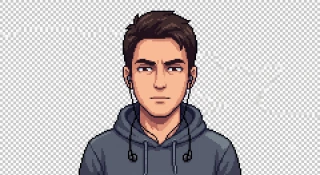
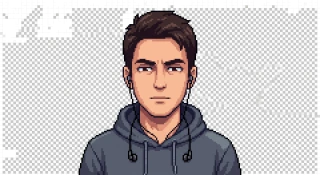
Fiyat/pazarlık mekaniği ekle, görsellerden AI watermark'ını temizle
- HouseScene.askingPrice + ChoiceEffects.discountPercent ile pazarlık
- İndirim verilirse komisyon düşer ama satış inisiyatifi artar
- Sonuç ve özet ekranlarında satış fiyatı/komisyon gösterimi
- Sahne ve portre görsellerindeki sparkle watermark inpainting ile temizlendi

Changed region(s): [[0.0, 0.0, 1.0, 1.0], [0.8438, 0.9714, 0.875, 1.0], [0.0938, 0.9714, 0.125, 1.0]]

diff --git a/src/App.tsx b/src/App.tsx
@@ -4,12 +4,19 @@ import DialogueScene from "./components/DialogueScene";
 import StatsBar from "./components/StatsBar";
 import { day1IntroMessages, day1IntroThought, day2IntroMessages, day2IntroThought } from "./data/intro";
 import { houseKokuluStudyo, houseHayaletliDaire } from "./data/houses";
-import type { ChoiceEffects, GameStats, SceneOutcome } from "./types";
+import { COMMISSION_RATE, formatTL } from "./data/economy";
+import type { ChoiceEffects, GameStats, HouseScene, SceneOutcome } from "./types";
 import "./game.css";
 
 type Stage = "phone1" | "house1" | "result1" | "phone2" | "house2" | "result2" | "summary";
 
-const emptyStats: GameStats = { suspicion: 0, interest: 0, fun: 0 };
+interface SaleResult {
+  finalPrice: number;
+  commission: number;
+  discountPercent: number;
+}
+
+const emptyStats: GameStats = { suspicion: 0, interest: 0, fun: 0, discountPercent: 0 };
 
 const outcomeText: Record<SceneOutcome, string> = {
   sold: "Satış tamamlandı! 🎉",
@@ -17,19 +24,30 @@ const outcomeText: Record<SceneOutcome, string> = {
   lost: "Satış kaybedildi.",
 };
 
+function computeSale(house: HouseScene, discountPercent: number): SaleResult {
+  const finalPrice = house.askingPrice * (1 - discountPercent / 100);
+  const commission = finalPrice * COMMISSION_RATE;
+  return { finalPrice, commission, discountPercent };
+}
+
 function App() {
   const [stage, setStage] = useState<Stage>("phone1");
   const [stats, setStats] = useState<GameStats>(emptyStats);
   const [outcome1, setOutcome1] = useState<SceneOutcome | null>(null);
   const [outcome2, setOutcome2] = useState<SceneOutcome | null>(null);
+  const [sale1, setSale1] = useState<SaleResult | null>(null);
+  const [sale2, setSale2] = useState<SaleResult | null>(null);
 
   function applyEffects(effects: ChoiceEffects) {
     setStats((s) => ({
       suspicion: s.suspicion + (effects.suspicion ?? 0),
       interest: s.interest + (effects.interest ?? 0),
       fun: s.fun + (effects.fun ?? 0),
+      discountPercent: s.discountPercent + (effects.discountPercent ?? 0),
     }));
   }
+
+  const totalCommission = (sale1?.commission ?? 0) + (sale2?.commission ?? 0);
 
   return (
     <div className="game-root">
@@ -54,6 +72,7 @@ function App() {
             onChoiceEffects={applyEffects}
             onSceneEnd={(outcome) => {
               setOutcome1(outcome);
+              if (outcome === "sold") setSale1(computeSale(houseKokuluStudyo, stats.discountPercent));
               setStage("result1");
             }}
           />
@@ -63,6 +82,12 @@ function App() {
       {stage === "result1" && outcome1 && (
         <div className="result-screen">
           <p>{outcomeText[outcome1]}</p>
+          {sale1 && (
+            <div className="sale-summary">
+              <p>Satış Fiyatı: {formatTL(sale1.finalPrice)}{sale1.discountPercent > 0 && ` (%${sale1.discountPercent} indirimli)`}</p>
+              <p>Komisyonunuz: {formatTL(sale1.commission)}</p>
+            </div>
+          )}
           <button className="pixel-btn" onClick={() => { setStats(emptyStats); setStage("phone2"); }}>
             Devam Et
           </button>
@@ -85,6 +110,7 @@ function App() {
             onChoiceEffects={applyEffects}
             onSceneEnd={(outcome) => {
               setOutcome2(outcome);
+              if (outcome === "sold") setSale2(computeSale(houseHayaletliDaire, stats.discountPercent));
               setStage("result2");
             }}
           />
@@ -94,6 +120,12 @@ function App() {
       {stage === "result2" && outcome2 && (
         <div className="result-screen">
           <p>{outcomeText[outcome2]}</p>
+          {sale2 && (
+            <div className="sale-summary">
+              <p>Satış Fiyatı: {formatTL(sale2.finalPrice)}{sale2.discountPercent > 0 && ` (%${sale2.discountPercent} indirimli)`}</p>
+              <p>Komisyonunuz: {formatTL(sale2.commission)}</p>
+            </div>
+          )}
           <button className="pixel-btn" onClick={() => setStage("summary")}>
             Günü Bitir
           </button>
@@ -105,6 +137,7 @@ function App() {
           <p>Bugünün özeti:</p>
           <p>Ev 1 — Kokulu Stüdyo: {outcome1 && outcomeText[outcome1]}</p>
           <p>Ev 2 — Hayaletli Daire: {outcome2 && outcomeText[outcome2]}</p>
+          <p className="sale-summary">Toplam Komisyon: {formatTL(totalCommission)}</p>
           <p className="muzaffer-note">
             Muzaffer Bey: "{outcome1 === "sold" || outcome2 === "sold" ? "Aferin aslanım, devam!" : "Emlah'ım biraz gayret 😐"}"
           </p>

diff --git a/src/data/houses.ts b/src/data/houses.ts
@@ -6,6 +6,7 @@ export const houseKokuluStudyo: HouseScene = {
   location: "Nişantaşı, 3. kat",
   customerNames: ["Ceylin"],
   background: "placeholder-house-1",
+  askingPrice: 3200000,
   startNode: "start",
   nodes: {
     // 1) Karşılama — küçük bir seçim
@@ -143,8 +144,8 @@ export const houseKokuluStudyo: HouseScene = {
         { speaker: "customer1", name: "Ceylin", text: "Çünkü bu haliyle tam istediğim fiyat değil açıkçası." },
       ],
       choices: [
-        { id: "a", text: "\"Sahibiyle konuşup biraz esneklik sağlayabilirim.\"", next: "closing_sold", effects: { suspicion: -10 } },
-        { id: "b", text: "\"Fiyat zaten piyasa değerinin altında, çok payı yok ama düşünebilirim.\"", next: "closing_thinking", effects: { suspicion: 0 } },
+        { id: "a", text: "\"Sahibiyle konuşup %8 indirim sağlayabilirim.\"", next: "closing_sold", effects: { suspicion: -10, discountPercent: 8 } },
+        { id: "b", text: "\"Fiyat zaten piyasa değerinin altında, indirim payı yok ama düşünebilirim.\"", next: "closing_thinking", effects: { suspicion: 0 } },
         { id: "c", text: "\"Bu fiyata bu evi başka kimse bulamazsınız, hemen karar vermelisiniz.\"", next: "closing_lost", effects: { suspicion: 20 } },
       ],
     },
@@ -183,6 +184,7 @@ export const houseHayaletliDaire: HouseScene = {
   location: "Cihangir, 2. kat",
   customerNames: ["Nermin Hanım", "Kaan"],
   background: "placeholder-house-2",
+  askingPrice: 4750000,
   startNode: "start",
   nodes: {
     // 1) İlk enerji yorumu — seçim
@@ -307,8 +309,8 @@ export const houseHayaletliDaire: HouseScene = {
         { speaker: "customer1", name: "Nermin Hanım", text: "Son bir cümle, karar vermeden önce." },
       ],
       choices: [
-        { id: "a", text: "\"Bu evin bir ruhu var, Kaan burada kendini gerçekten bulabilir.\"", next: "closing_sold_ruh", effects: { interest: 20 } },
-        { id: "b", text: "\"Rasyonel konuşayım: konum, metrekare ve fiyat gerçekten uygun.\"", next: "closing_thinking", effects: { suspicion: 0 } },
+        { id: "a", text: "\"Bu evin bir ruhu var, Kaan burada kendini gerçekten bulabilir — üstüne %5 de indirim ayarlarım.\"", next: "closing_sold_ruh", effects: { interest: 20, discountPercent: 5 } },
+        { id: "b", text: "\"Rasyonel konuşayım: konum, metrekare ve fiyat gerçekten uygun, indirime gerek yok.\"", next: "closing_thinking", effects: { suspicion: 0 } },
         { id: "c", text: "\"Bugün karar vermezseniz başka bir aile alır, söyleyeyim.\"", next: "closing_lost", effects: { suspicion: 20 } },
       ],
     },

diff --git a/src/components/DialogueScene.tsx b/src/components/DialogueScene.tsx
@@ -2,6 +2,7 @@ import { useEffect, useState } from "react";
 import type { ChoiceEffects, HouseScene, SceneOutcome } from "../types";
 import { houseImages } from "../data/houseImages";
 import { characterImages } from "../data/characterImages";
+import { formatTL } from "../data/economy";
 
 interface DialogueSceneProps {
   house: HouseScene;
@@ -58,7 +59,8 @@ export default function DialogueScene({ house, onChoiceEffects, onSceneEnd }: Di
           style={image ? { backgroundImage: `url(${image})` } : undefined}
         />
         <div className="scene-title">
-          {house.title} — {house.location}
+          <span>{house.title} — {house.location}</span>
+          <span className="scene-price">{formatTL(house.askingPrice)}</span>
         </div>
       </div>
 

diff --git a/src/types.ts b/src/types.ts
@@ -10,6 +10,8 @@ export interface ChoiceEffects {
   suspicion?: number;
   interest?: number;
   fun?: number;
+  /** Negotiated discount, as a percentage of asking price (positive = price drops). */
+  discountPercent?: number;
 }
 
 export interface Choice {
@@ -33,6 +35,8 @@ export interface HouseScene {
   location: string;
   customerNames: string[];
   background: string;
+  /** Asking price in TL, shown to the player before negotiation. */
+  askingPrice: number;
   startNode: string;
   nodes: Record<string, DialogueNode>;
 }
@@ -46,6 +50,7 @@ export type GameStats = {
   suspicion: number;
   interest: number;
   fun: number;
+  discountPercent: number;
 };
 
 export type SceneOutcome = "sold" | "thinking" | "lost";

diff --git a/src/game.css b/src/game.css
@@ -379,6 +379,16 @@
   background: rgba(0, 0, 0, 0.6);
   font-size: 0.75rem;
   padding: 4px 8px;
+  display: flex;
+  justify-content: space-between;
+  align-items: center;
+  gap: 8px;
+}
+
+.scene-price {
+  color: #ffd166;
+  font-weight: bold;
+  white-space: nowrap;
 }
 
 .dialogue-box {
@@ -511,4 +521,16 @@
 .muzaffer-note {
   color: #ffd166;
   font-style: italic;
+}
+
+.sale-summary {
+  background: #14142b;
+  border: 2px solid #444;
+  border-radius: 8px;
+  padding: 10px 16px;
+  color: #06d6a0;
+  font-size: 0.9rem;
+  display: flex;
+  flex-direction: column;
+  gap: 4px;
 }

diff --git a/src/data/economy.ts b/src/data/economy.ts
@@ -1,0 +1,4 @@
+export const COMMISSION_RATE = 0.03;
+
+export const formatTL = (amount: number) =>
+  new Intl.NumberFormat("tr-TR", { style: "currency", currency: "TRY", maximumFractionDigits: 0 }).format(amount);
